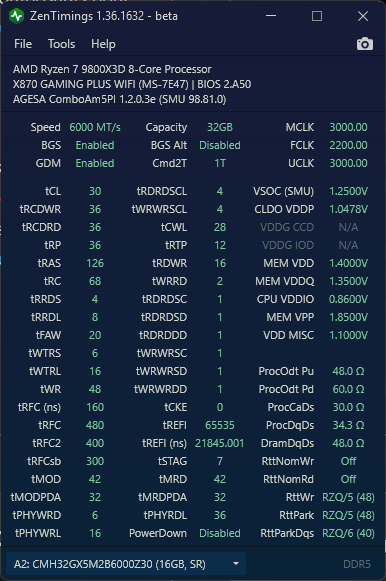
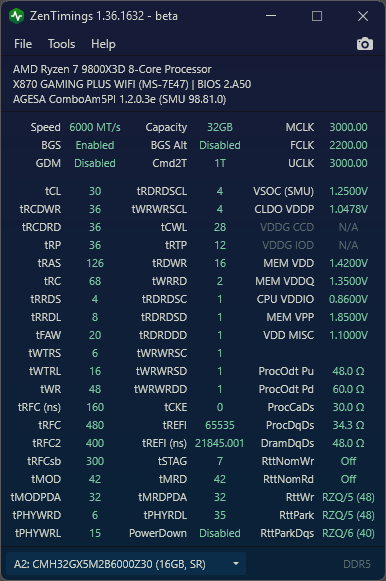
full opti phone pc tablette & new things zt & oc

diff --git a/overclocking.html b/overclocking.html
@@ -43,9 +43,9 @@
                 <li><strong>FCLK (AMD) :</strong> 1:1 avec la RAM (6000 MHz = 3000 FCLK)</li>
                 <li><strong>Voltages :</strong>
                     <ul>
-                        <li>VDIMM : 1.35-1.4V pour DDR5-6000</li>
-                        <li>VDDQ : 1.3V</li>
-                        <li>VPP : 1.8V</li>
+                        <li>VDIMM : 1.4-1.45V pour DDR5-6000 pour des timings serrés</li>
+                        <li>VDDQ : 1.35V</li>
+                        <li>VPP : 1.85V</li>
                     </ul>
                 </li>
                 <li><strong>Timings principaux :</strong> CL-RCD-RP-RAS (ex: 30-36-36-76)</li>
@@ -117,6 +117,7 @@
                 <li><strong>Fréquence :</strong> 6000 MHz</li>
                 <li><strong>FCLK :</strong> 2200 MHz (ratio 1:1)</li>
                 <li><strong>Timings :</strong> Optimisés au maximum</li>
+                <li><strong>GDM :</strong> Off</li>
                 <li><strong>Stabilité :</strong> Testée 24h+</li>
             </ul>
 
